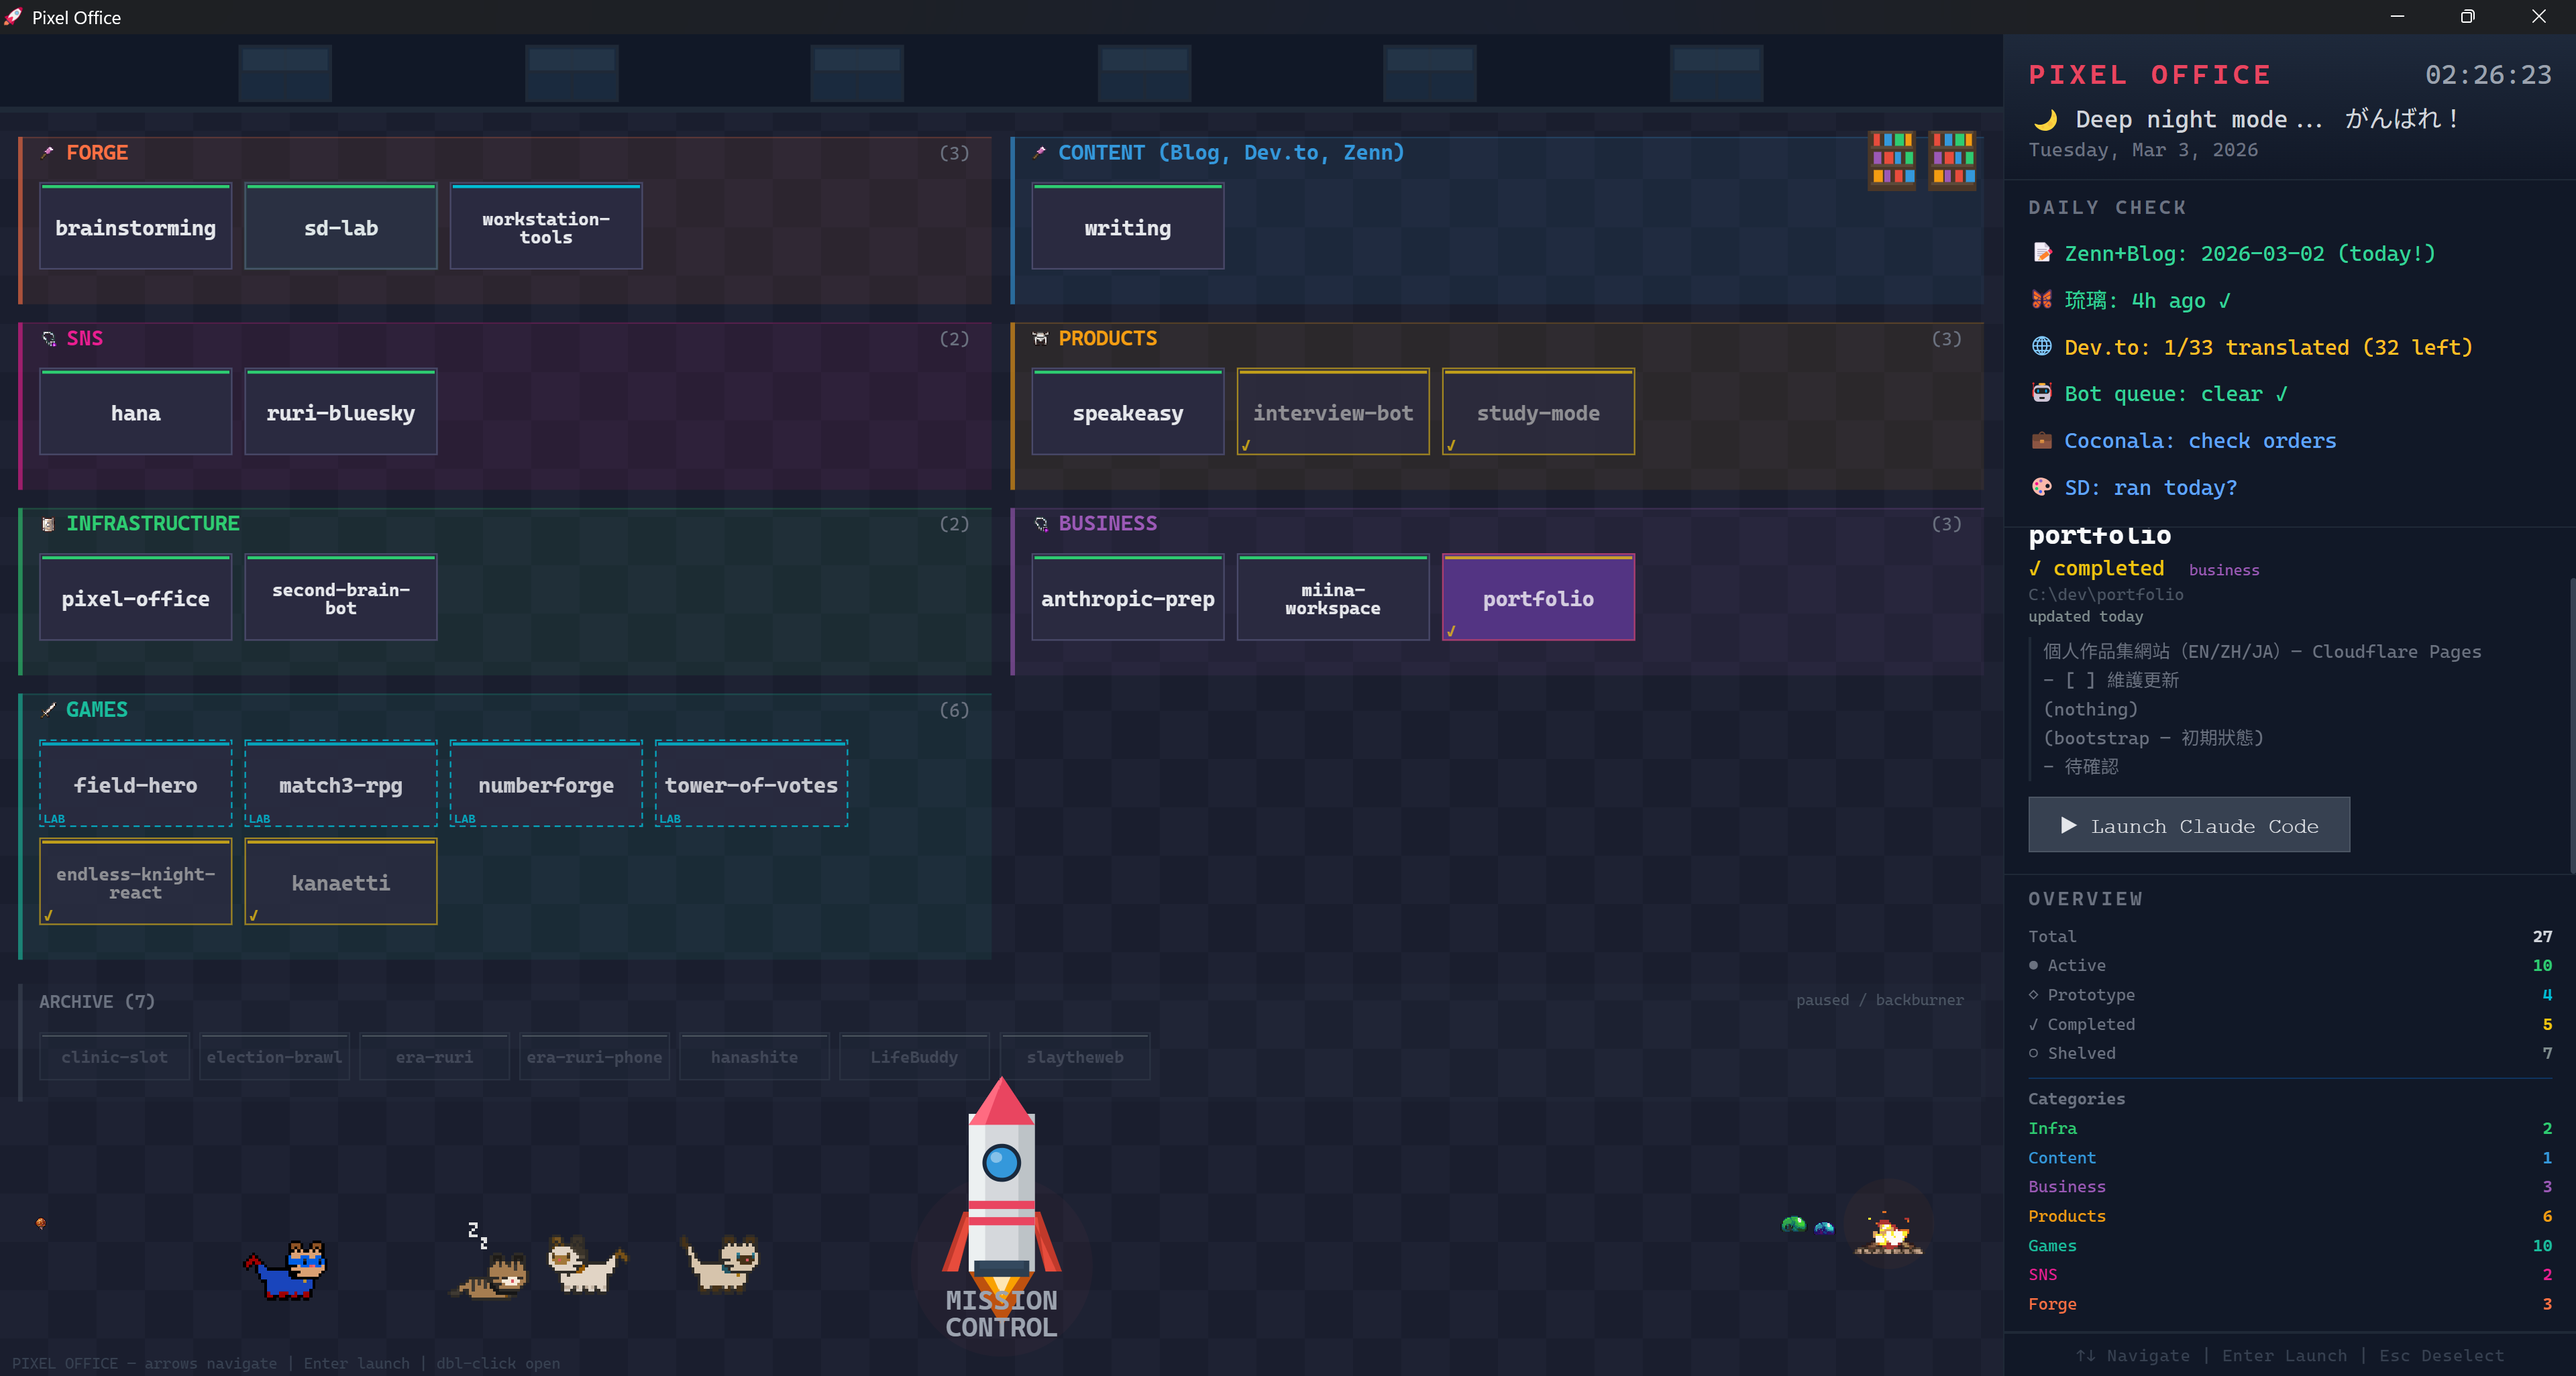
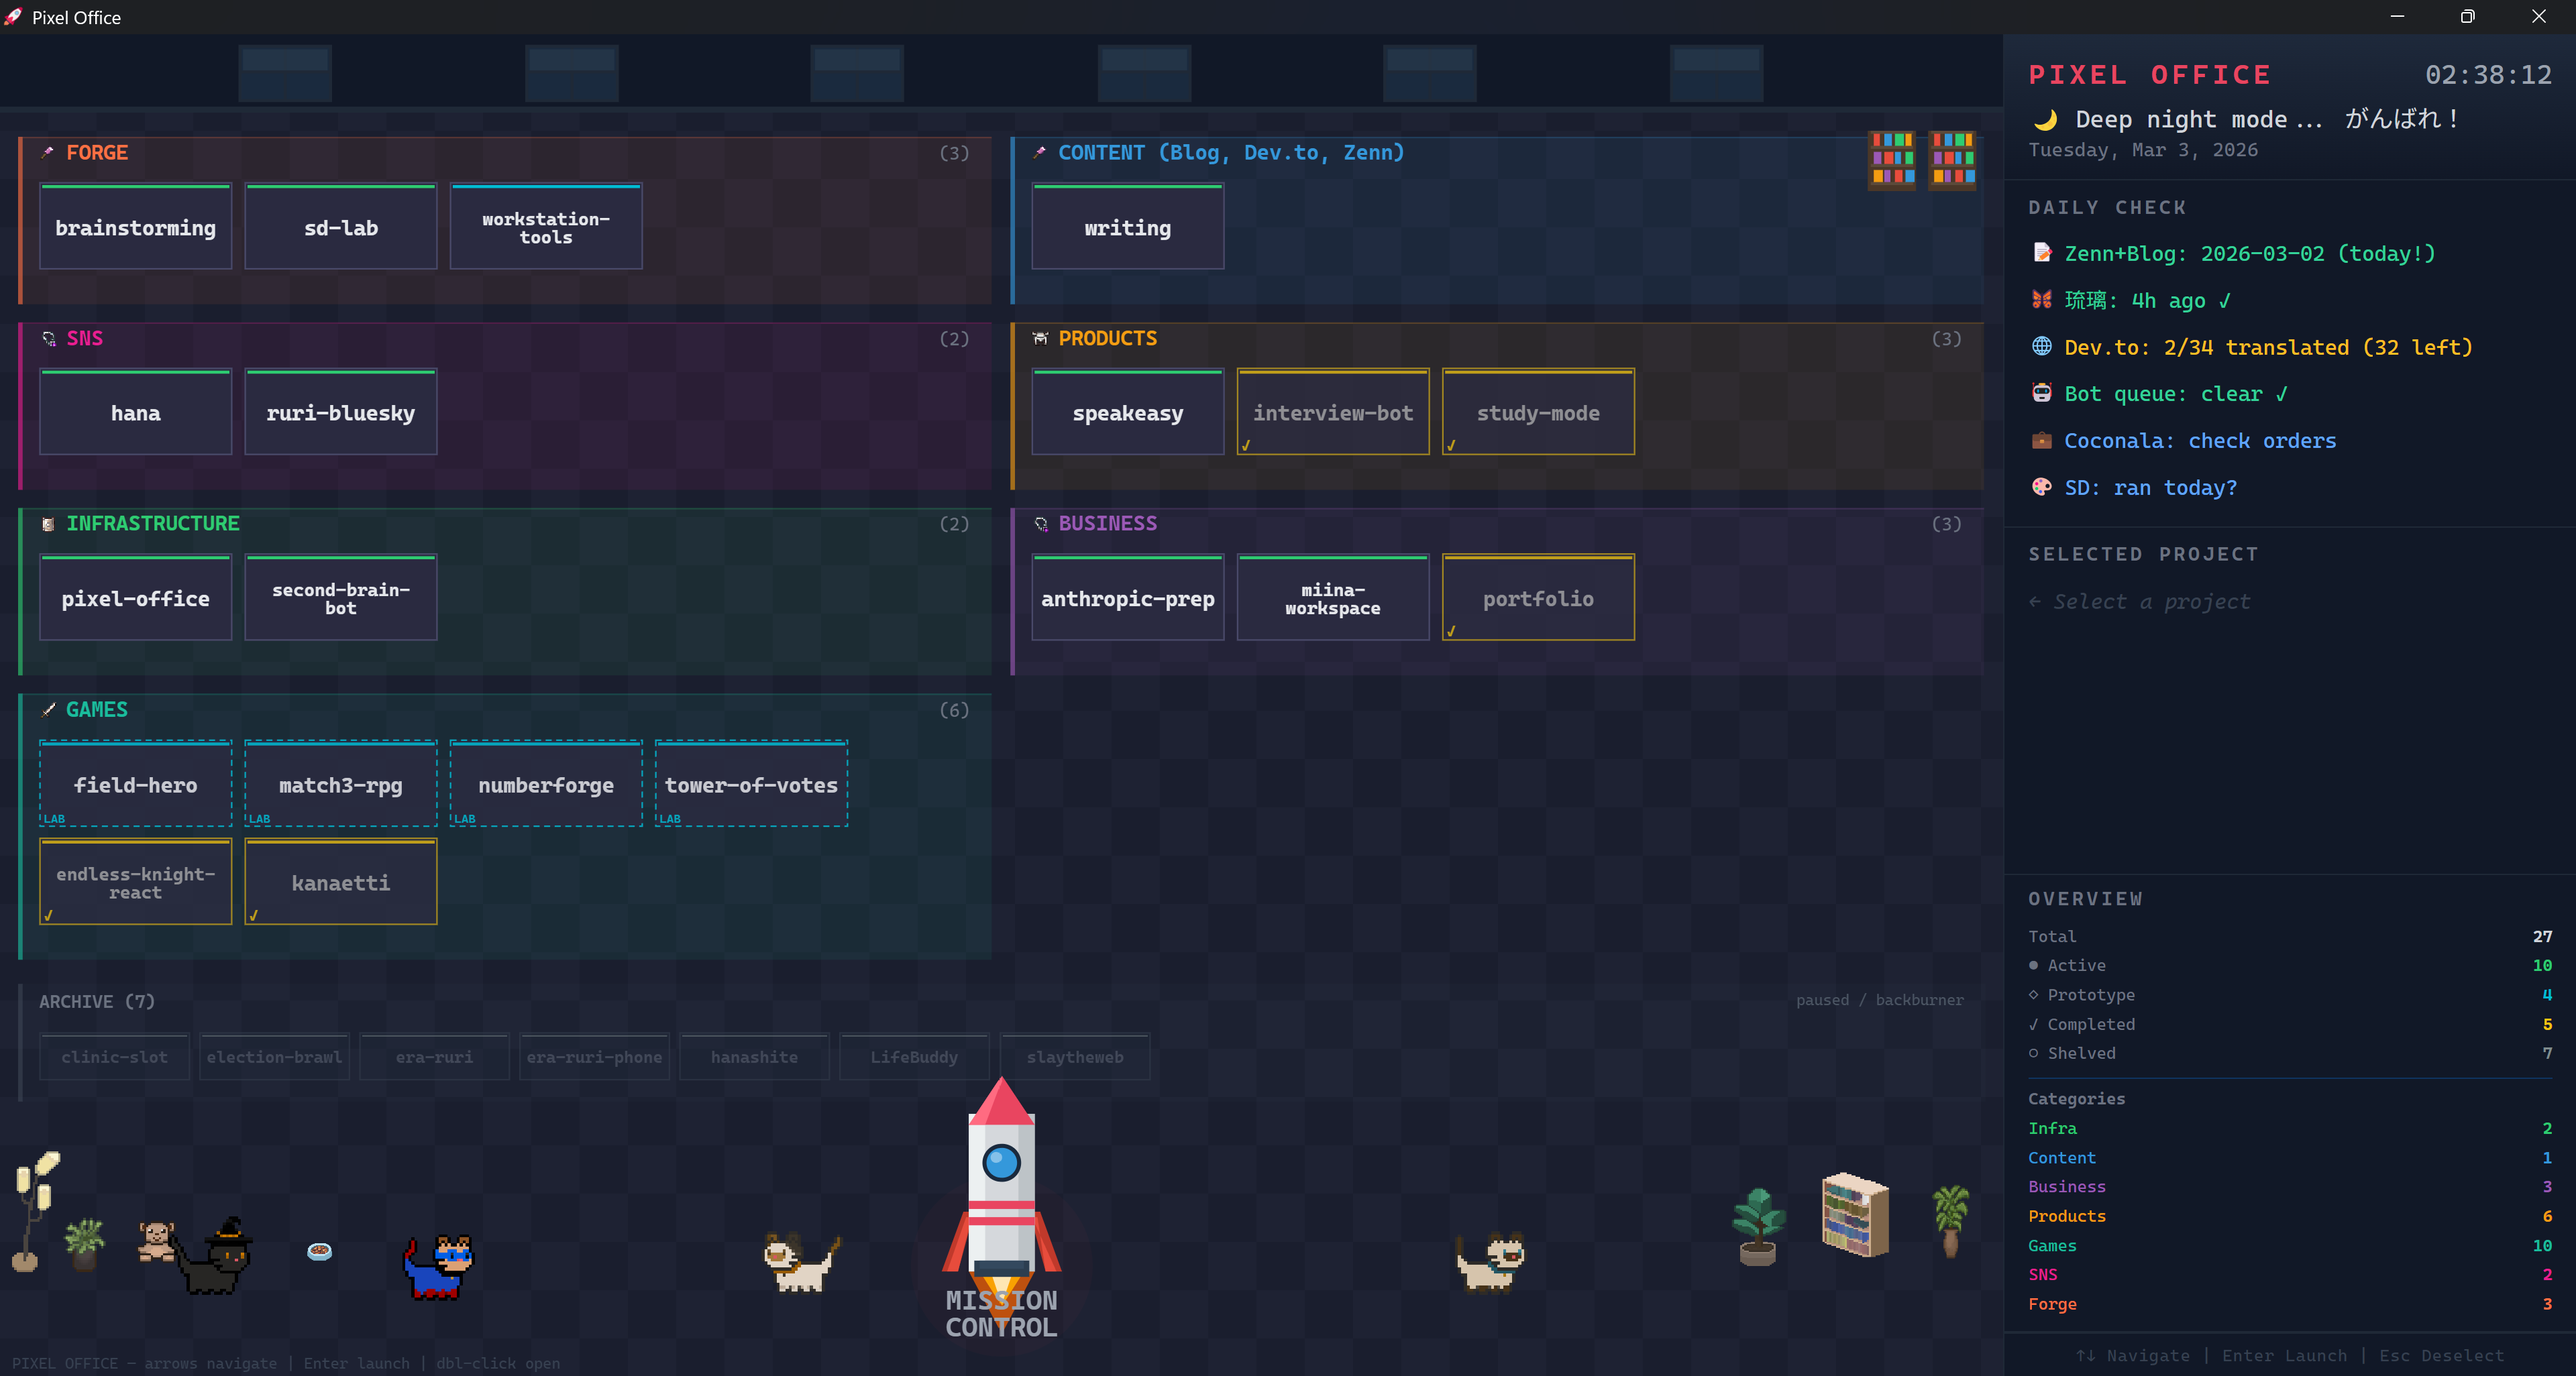
Fix image URL and update screenshot
Corrected GitHub raw URL repo name, updated screenshot with
Kanaetti decorations.

diff --git a/pixel-office-visual-command-center.md b/pixel-office-visual-command-center.md
@@ -13,7 +13,7 @@ A while back, I built a text-based "Mission Control" dashboard inside Claude Cod
 
 So I upgraded it into a pixel art visual command center.
 
-![Pixel Office screenshot](https://raw.githubusercontent.com/nicoara-dev/devto-articles/main/images/pixel-office-mission-control.png)
+![Pixel Office screenshot](https://raw.githubusercontent.com/minatoplanb/devto-articles/main/images/pixel-office-mission-control.png)
 
 ---
 
